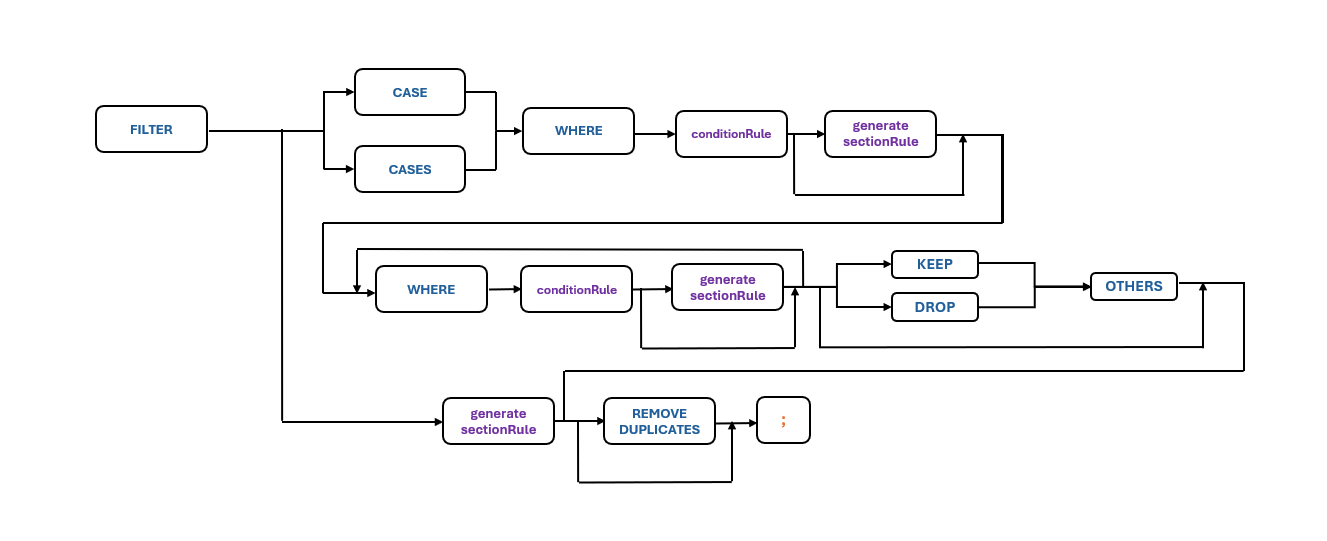
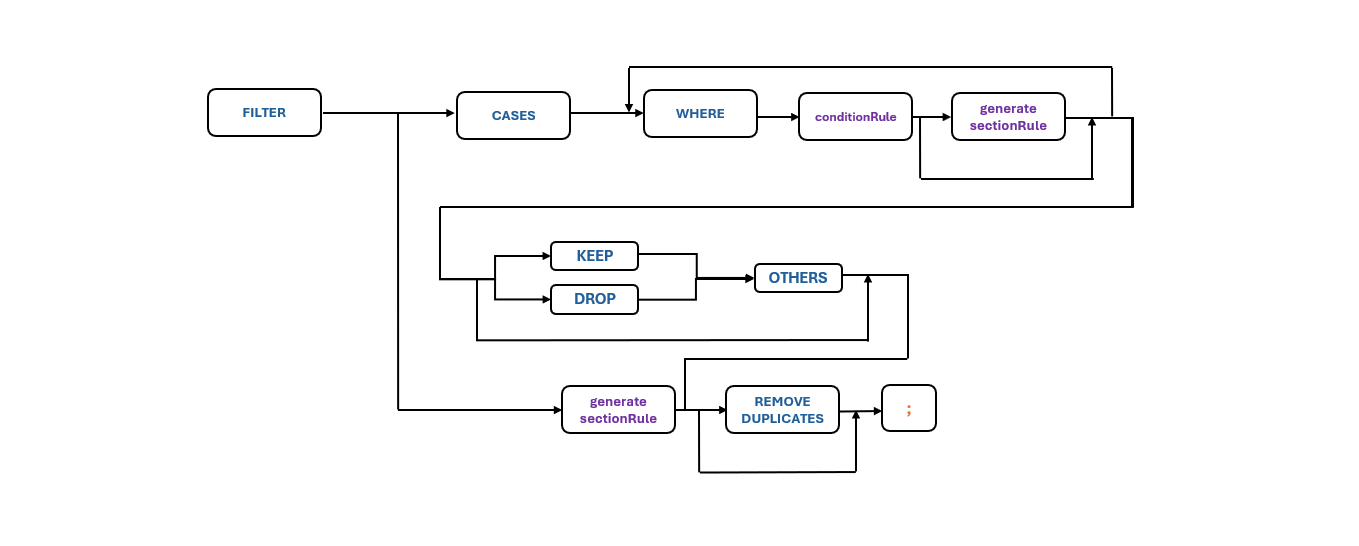
nn

diff --git a/languageSpecification/mergeCollections.md b/languageSpecification/mergeCollections.md
@@ -1,0 +1,31 @@
+# Merge Collections instruction
+
+Performs the union of the specified collections.
+
+The resulting collection becomes the new current collection and includes all documents from the source collections.
+
+The option REMOVE DUPLICATES eliminates duplicate documents.
+
+## EBNF Notation
+    mergeCollections ::= MERGE COLLECTIONS (id¹ [@id²] [AS id³])++
+                            [REMOVE DUPLICATES]* ;
+
+## Syntax Diagram
+![MergeCollections instruction Syntax!](/languageSpecification/.assets/images/merge_collections.jpg "Merge Collections Syntax Diagram") 
+
+## Semantics
+* The `id¹` token represents the collection name.
+* The `id²` token represents the database name.
+* The `id³` token represents the alias name.
+* Multiple collections can be specified, separated by commas.
+* The optional `REMOVE DUPLICATES` clause eliminates duplicate documents from the result.
+* The merged collection becomes the new current collection.
+
+## Examples
+      MERGE COLLECTIONS c1@db1, c2@db2, c3@db3;
+      MERGE COLLECTIONS c4@db1, c4@db2, c2@db3 REMOVE DUPLICATES;
+
+## Issues
+
+## References
+For the *token list specification* see description [tokenList.md](/languageSpecification/tokenList.md) file.
